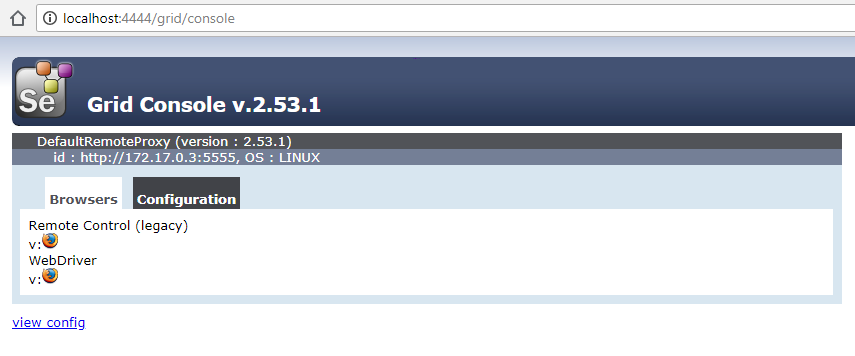
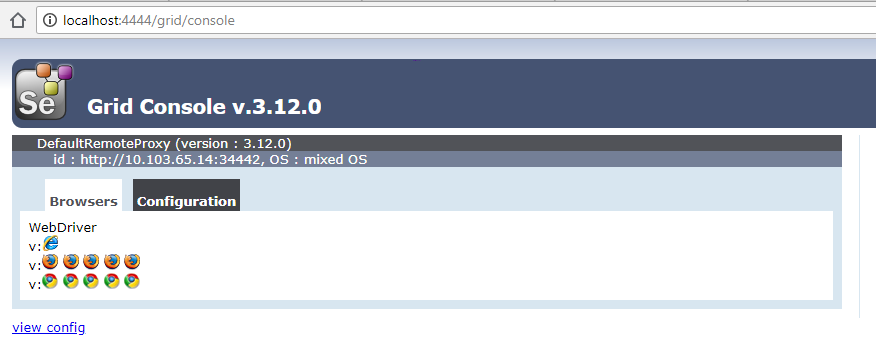
Instructions done

Changed region(s): [[0.0, 0.1554, 1.0, 0.9633], [0.0, 0.0, 1.0, 0.1243]]

diff --git a/README.md b/README.md
@@ -41,7 +41,7 @@ You can follow instructions from [this video](https://www.youtube.com/watch?v=vU
 Link to installer download page - [click](https://maven.apache.org/download.cgi).
 
 ## Run selenium hub and node images
-I highly recoment using option with docker (just because it's more comfortable and easy), but in some cases it's not possible to use it. This case occurs when you are not able to install docker which requires Windows 10 Pro. So my suggestion is just to try installing docker and then if something is wrong switching to second option. 
+I highly recommend using option with docker (just because it's more comfortable and easy), but in some cases it's not possible to use it. This case occurs when you are not able to install docker which requires Windows 10 Pro. So my suggestion is just to try installing docker and then if something is wrong switching to second option. 
 ### Option with docker
 #### Installing docker
 We'll use docker to setup test run environment (selenium grid and node). Please follow [this instruction](https://docs.docker.com/docker-for-windows/install/#about-windows-containers).
@@ -67,6 +67,46 @@ You can also open in your browser [http://localhost:4444/grid/console](http://lo
 ![grid console](images/grid_console.png)
 
 ### Option without docker
+You have to download Selenium jar using [this link](https://goo.gl/tbd1NS). You can run selenium-hub now, by opening console in location when you downloaded file and running command:
+```
+java -jar selenium-server-standalone-3.12.0.jar -role hub
+```
+After that you should see something like this:
+```
+λ java -jar selenium-server-standalone-3.12.0.jar -role hub
+21:02:22.188 INFO [GridLauncherV3.launch] - Selenium build info: version: '3.12.0', revision: '7c6e0b3'
+21:02:22.203 INFO [GridLauncherV3$2.launch] - Launching Selenium Grid hub on port 4444
+2018-06-17 21:02:22.859:INFO::main: Logging initialized @1831ms to org.seleniumhq.jetty9.util.log.StdErrLog
+21:02:23.778 INFO [Hub.start] - Selenium Grid hub is up and running
+21:02:23.782 INFO [Hub.start] - Nodes should register to http://10.103.65.14:4444/grid/register/
+21:02:23.783 INFO [Hub.start] - Clients should connect to http://10.103.65.14:4444/wd/hub
+```
+You can also open [http://localhost:4444/grid/console](http://localhost:4444/grid/console) in your browser and you should see Selenium header.
+Now it's time to configure and run node. To run test on the firefox you have to download and extract [gecko driver](https://github.com/mozilla/geckodriver/releases). Now you can run node passing path where you have extracted geckodriver:
+```
+java -Dwebdriver.gecko.driver="C:\geckodriver.exe" -jar selenium-server-standalone-3.12.0.jar -role node -hub http://localhost:4444/grid/register
+```
+You should see output like this:
+```
+λ java -Dwebdriver.gecko.driver="C:\geckodriver.exe" -jar selenium-server-standalone-3.12.0.jar -role node -hub http://localhost:4444/grid/register
+21:28:19.458 INFO [GridLauncherV3.launch] - Selenium build info: version: '3.12.0', revision: '7c6e0b3'
+21:28:19.530 INFO [GridLauncherV3$3.launch] - Launching a Selenium Grid node on port 34442
+2018-06-17 21:28:20.649:INFO::main: Logging initialized @2406ms to org.seleniumhq.jetty9.util.log.StdErrLog
+21:28:21.054 INFO [SeleniumServer.boot] - Selenium Server is up and running on port 34442
+21:28:21.056 INFO [GridLauncherV3$3.launch] - Selenium Grid node is up and ready to register to the hub
+21:28:21.289 INFO [SelfRegisteringRemote$1.run] - Starting auto registration thread. Will try to register every 5000 ms.
+21:28:21.293 INFO [SelfRegisteringRemote.registerToHub] - Registering the node to the hub: http://localhost:4444/grid/register
+WARNING: An illegal reflective access operation has occurred
+WARNING: Illegal reflective access by org.openqa.selenium.json.BeanToJsonConverter (file:/C:/Users/mlo/Downloads/selenium-server-standalone-3.12.0.jar) to method sun.reflect.annotation.AnnotatedTypeFactory$AnnotatedTypeBaseImpl.getDeclaredAnnotations()
+WARNING: Please consider reporting this to the maintainers of org.openqa.selenium.json.BeanToJsonConverter
+WARNING: Use --illegal-access=warn to enable warnings of further illegal reflective access operations
+WARNING: All illegal access operations will be denied in a future release
+21:28:22.317 INFO [SelfRegisteringRemote.registerToHub] - Updating the node configuration from the hub
+21:28:22.464 INFO [SelfRegisteringRemote.registerToHub] - The node is registered to the hub and ready to use
+```
+You can also open in your browser [http://localhost:4444/grid/console](http://localhost:4444/grid/console), you should see something like this:
+![grid console](images/grid_console.png)
+
 ## Installing git
 Open [git download page](https://git-scm.com/downloads), download installer and run it. Follow installers instructions. If git is correctly installed then after putting ``git --version`` you should see something like this:
 ```
@@ -92,3 +132,4 @@ When project import will be done, please open IntelliJ IDEA settings (if you don
 ![idea setting maven](images/idea_setting_maven.PNG)
 
 Please change _Maven home directory_ - click _..._ and select maven path (this one which you have installed).
+When project is properly imported please click icon in bottom left corner and select _Maven projects_. On the right side _Maven projects_ menu will appear. Expand _lifecycle_ and double click _verify_. On the bottom of window terminal will appear. In this window you can track test progress. In VNC window you should be able to see running test. If you don't use docker then firefox window should appear. If test runs and reslt is ok, then you have configured everythign properly :) Well done!
